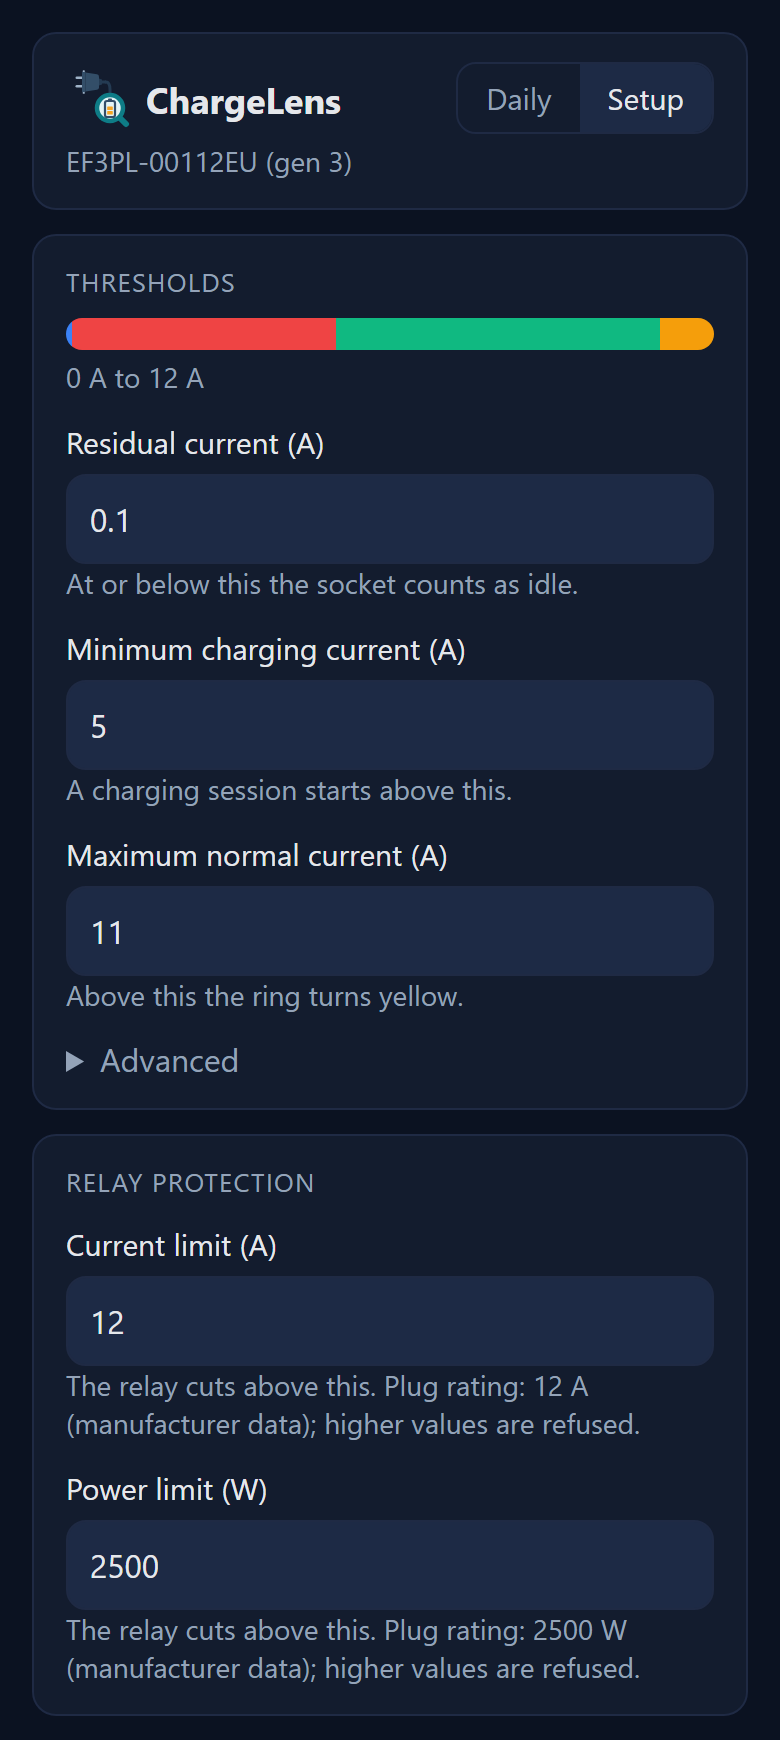
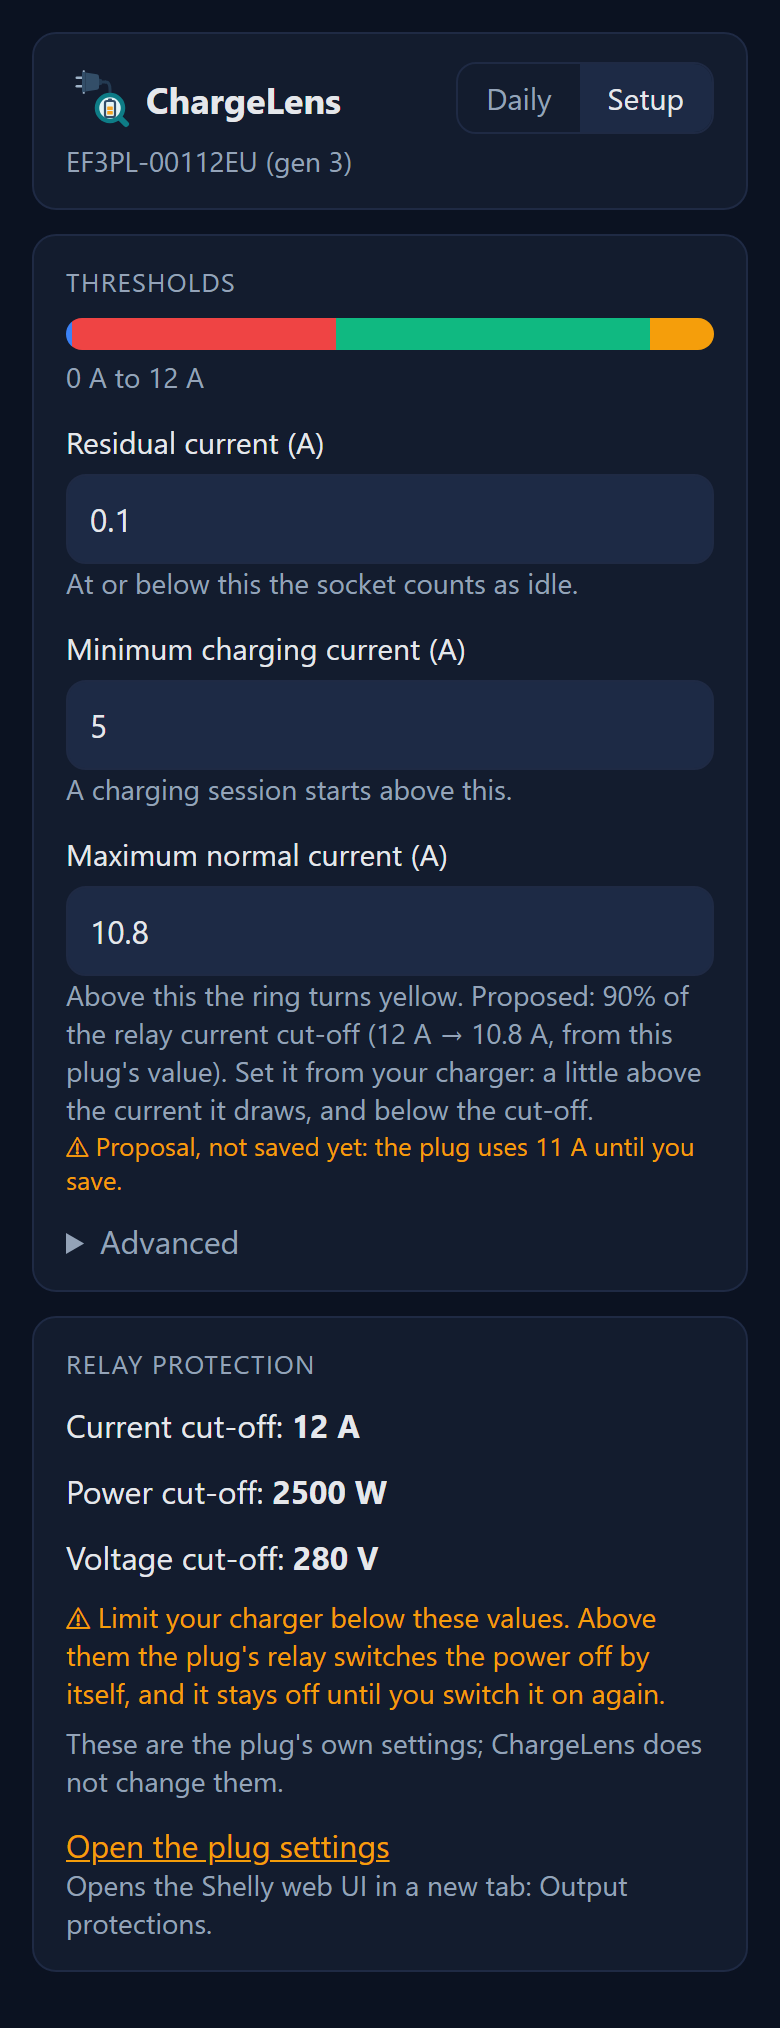
Release v1.0.0-rc.8: relay protection shown read-only, yellow default from the cut-off

diff --git a/dist/SetupHtml.html b/dist/SetupHtml.html
@@ -1,4 +1,4 @@
-<!-- ChargeLens SetupHtml v1.0.0-rc.7 -->
+<!-- ChargeLens SetupHtml v1.0.0-rc.8 -->
 <!DOCTYPE html><html lang="en"><head><meta charset="utf-8">
 <meta name="viewport" content="width=device-width,initial-scale=1,viewport-fit=cover">
 <meta name="apple-mobile-web-app-capable" content="yes"><meta name="mobile-web-app-capable" content="yes">
@@ -200,7 +200,7 @@ $('app').innerHTML=
 fl('r','Residual current (A)','At or below this the socket counts as idle.',c.r)+fl('g','Minimum charging current (A)','A charging session starts above this.',c.g)+fl('y','Maximum normal current (A)','Above this the ring turns yellow. Proposed: 90% of the relay current cut-off'+(CUT.current_limit>0?' ('+CUT.current_limit+' A &rarr; '+yProposal(CUT)+' A, from this plug\'s value)':'')+'. Set it from your charger: a little above the current it draws, and below the cut-off.',c.y)+
 '<details><summary>Advanced</summary>'+fl('h','Hysteresis (A)','',c.h)+fl('hr','Residual hysteresis (A)','',c.hr)+fl('hs','Band hold time (s)','',c.hs)+fl('sg','Session gap (s)','A session ends after this long without charging current.',c.sg)+'</details></div>'+
 '<div class="c"><div class="lab">Relay protection</div>'+[['current_limit','Current','A'],['power_limit','Power','W'],['voltage_limit','Voltage','V']].map(x=>'<div class="f">'+x[1]+' cut-off: <b>'+(CUT[x[0]]===null?'unknown':CUT[x[0]]+' '+x[2])+'</b></div>').join('')+
-'<div class="mu" style="color:var(--warn)">&#9888; Limit your charger below these values. Above them the plug\'s relay switches the power off by itself, and it stays off until you switch it on again.</div><div class="mu">These are the plug\'s own settings; ChargeLens does not change them.</div>'+
+'<div class="mu" style="color:var(--warn);margin:10px 0 6px">&#9888; Limit your charger below these values. Above them the plug\'s relay switches the power off by itself, and it stays off until you switch it on again.</div><div class="mu">These are the plug\'s own settings; ChargeLens does not change them.</div>'+
 '<div class="f"><a href="'+cutLink(location.host)+'" target="_blank" rel="noopener">Open the plug settings</a><div class="mu">Opens the Shelly web UI in a new tab: Output protections.</div></div></div>'+
 '<div class="c"><div class="lab">Device</div>'+tx('name','Device name (optional, up to 64 characters)',n.name)+'</div>'+
 '<div class="c"><div class="lab">Button</div>'+sl('in_mode','The button',[['detached','does nothing'],['momentary','toggles the relay']],n.in_mode)+'</div>'+

diff --git a/src/setup.html b/src/setup.html
@@ -129,7 +129,7 @@ $('app').innerHTML=
 fl('r','Residual current (A)','At or below this the socket counts as idle.',c.r)+fl('g','Minimum charging current (A)','A charging session starts above this.',c.g)+fl('y','Maximum normal current (A)','Above this the ring turns yellow. Proposed: 90% of the relay current cut-off'+(CUT.current_limit>0?' ('+CUT.current_limit+' A &rarr; '+yProposal(CUT)+' A, from this plug\'s value)':'')+'. Set it from your charger: a little above the current it draws, and below the cut-off.',c.y)+
 '<details><summary>Advanced</summary>'+fl('h','Hysteresis (A)','',c.h)+fl('hr','Residual hysteresis (A)','',c.hr)+fl('hs','Band hold time (s)','',c.hs)+fl('sg','Session gap (s)','A session ends after this long without charging current.',c.sg)+'</details></div>'+
 '<div class="c"><div class="lab">Relay protection</div>'+[['current_limit','Current','A'],['power_limit','Power','W'],['voltage_limit','Voltage','V']].map(x=>'<div class="f">'+x[1]+' cut-off: <b>'+(CUT[x[0]]===null?'unknown':CUT[x[0]]+' '+x[2])+'</b></div>').join('')+
-'<div class="mu" style="color:var(--warn)">&#9888; Limit your charger below these values. Above them the plug\'s relay switches the power off by itself, and it stays off until you switch it on again.</div><div class="mu">These are the plug\'s own settings; ChargeLens does not change them.</div>'+
+'<div class="mu" style="color:var(--warn);margin:10px 0 6px">&#9888; Limit your charger below these values. Above them the plug\'s relay switches the power off by itself, and it stays off until you switch it on again.</div><div class="mu">These are the plug\'s own settings; ChargeLens does not change them.</div>'+
 '<div class="f"><a href="'+cutLink(location.host)+'" target="_blank" rel="noopener">Open the plug settings</a><div class="mu">Opens the Shelly web UI in a new tab: Output protections.</div></div></div>'+
 '<div class="c"><div class="lab">Device</div>'+tx('name','Device name (optional, up to 64 characters)',n.name)+'</div>'+
 '<div class="c"><div class="lab">Button</div>'+sl('in_mode','The button',[['detached','does nothing'],['momentary','toggles the relay']],n.in_mode)+'</div>'+

diff --git a/dist/installer.js b/dist/installer.js
@@ -1,6 +1,6 @@
-// ChargeLens Installer v1.0.0-rc.7
+// ChargeLens Installer v1.0.0-rc.8
 let REPO = "pjrml/chargelens";
-let TAG = "v1.0.0-rc.7";
+let TAG = "v1.0.0-rc.8";
 let BOOT = "<!DOCTYPE html><html lang=\"en\"><head><meta charset=\"utf-8\">" +
 "<meta name=\"viewport\" content=\"width=device-width,initial-scale=1\"><title>ChargeLens installer</title></head>" +
 "<body style=\"background:#0b1221;color:#94a3b8;font-family:sans-serif;padding:16px\"><div id=\"m\">Loading the installer...</div><script>" +

diff --git a/library/chargelens-installer.js b/library/chargelens-installer.js
@@ -1,6 +1,6 @@
-// ChargeLens Installer v1.0.0-rc.7
+// ChargeLens Installer v1.0.0-rc.8
 let REPO = "pjrml/chargelens";
-let TAG = "v1.0.0-rc.7";
+let TAG = "v1.0.0-rc.8";
 let BOOT = "<!DOCTYPE html><html lang=\"en\"><head><meta charset=\"utf-8\">" +
 "<meta name=\"viewport\" content=\"width=device-width,initial-scale=1\"><title>ChargeLens installer</title></head>" +
 "<body style=\"background:#0b1221;color:#94a3b8;font-family:sans-serif;padding:16px\"><div id=\"m\">Loading the installer...</div><script>" +

diff --git a/dist/install.html b/dist/install.html
@@ -1,4 +1,4 @@
-<!-- ChargeLens InstallHtml v1.0.0-rc.7 -->
+<!-- ChargeLens InstallHtml v1.0.0-rc.8 -->
 <!DOCTYPE html><html lang="en"><head><meta charset="utf-8">
 <meta name="viewport" content="width=device-width,initial-scale=1,viewport-fit=cover">
 <meta name="apple-mobile-web-app-capable" content="yes"><meta name="mobile-web-app-capable" content="yes">

diff --git a/dist/PageHtml.html b/dist/PageHtml.html
@@ -1,4 +1,4 @@
-<!-- ChargeLens PageHtml v1.0.0-rc.7 -->
+<!-- ChargeLens PageHtml v1.0.0-rc.8 -->
 <!DOCTYPE html><html lang="en"><head><meta charset="utf-8">
 <meta name="viewport" content="width=device-width,initial-scale=1,viewport-fit=cover">
 <meta name="apple-mobile-web-app-capable" content="yes"><meta name="mobile-web-app-capable" content="yes">

diff --git a/dist/Meter.js b/dist/Meter.js
@@ -1,4 +1,4 @@
-// ChargeLens Meter v1.0.0-rc.7
+// ChargeLens Meter v1.0.0-rc.8
 function cx() {
 let D = "r,0.1,0.02,1;g,5,1,11;y,11,1,12;h,0.3,0.05,1;hr,0.05,0.01,0.5;hs,10,2,60;sg,600,60,3600;p,0,0,10;lo,1,0,1;lb,50,5,100".split(";");
 let K = [], w, B;

diff --git a/dist/Led.js b/dist/Led.js
@@ -1,4 +1,4 @@
-// ChargeLens Led v1.0.0-rc.7
+// ChargeLens Led v1.0.0-rc.8
 let L = {r: 0.1, g: 5, y: 11, h: 0.3, hr: 0.05, hs: 10, lo: 1, lb: 50};
 function M(n, s, d) {
 if (!s || n <= d.r) return 0;

diff --git a/dist/Page.js b/dist/Page.js
@@ -1,4 +1,4 @@
-// ChargeLens Page v1.0.0-rc.7
+// ChargeLens Page v1.0.0-rc.8
 let V = 1700000000;
 let aa = 5;
 function A(f, O) {

diff --git a/tools/drive.py b/tools/drive.py
@@ -16,6 +16,9 @@ Steps run in order and stop at the first failed wait:
   dump                 print the address and the page text
   confirm              answer OK to every confirm() of the pages opened after it (e.g. the loader's ?base= prompt)
   sleep:<sec>
+  phone                phone viewport for the pages opened after it (390 px wide, 2x), as the doc screenshots
+  js:<expr>            evaluate JavaScript in the page and print the result (e.g. hide a MAC before a shot)
+  shot:<file>          PNG of the whole page content (up to the end of <body>) into <file>
 Exit code 0 when every step passed.
 """
 import argparse
@@ -32,8 +35,8 @@ import urllib.request
 
 sys.path.insert(0, os.path.dirname(os.path.abspath(__file__)))
 
-COMMANDS = ("open", "click", "click?", "check", "wait", "waiturl", "dump", "sleep", "confirm")
-NEEDS_ARG = ("open", "click", "click?", "check", "wait", "waiturl", "sleep")
+COMMANDS = ("open", "click", "click?", "check", "wait", "waiturl", "dump", "sleep", "confirm", "phone", "js", "shot")
+NEEDS_ARG = ("open", "click", "click?", "check", "wait", "waiturl", "sleep", "js", "shot")
 
 
 def parse_step(step):
@@ -197,6 +200,19 @@ def run(ip, steps, browser=None, port=9333):
                 ws.call("Page.addScriptToEvaluateOnNewDocument", {"source": "window.confirm=function(){return true}"})
             elif cmd == "sleep":
                 time.sleep(float(arg))
+            elif cmd == "phone":
+                ws.call("Emulation.setDeviceMetricsOverride", {"width": 390, "height": 844, "deviceScaleFactor": 2,
+                                                               "mobile": True})
+            elif cmd == "js":
+                print("   =", ev(ws, arg))
+            elif cmd == "shot":
+                w, h = ev(ws, "[document.documentElement.clientWidth,Math.ceil(document.body.getBoundingClientRect().bottom+"
+                              "parseFloat(getComputedStyle(document.body).marginBottom))]")
+                r = ws.call("Page.captureScreenshot", {"format": "png", "captureBeyondViewport": True,
+                                                       "clip": {"x": 0, "y": 0, "width": w, "height": h, "scale": 1}})
+                with open(arg, "wb") as f:
+                    f.write(base64.b64decode(r["data"]))
+                print("   saved", arg)
         return ok
     finally:
         p.terminate()

diff --git a/tools/test_drive.py b/tools/test_drive.py
@@ -18,6 +18,9 @@ CASES = [
     ("wait:a:b", ("wait", "a:b", None)),  # a non-number after the last colon is part of the text
     ("waiturl:/install:30", ("waiturl", "/install", 30)),
     ("sleep:2.5", ("sleep", "2.5", None)),
+    ("phone", ("phone", "", None)),
+    ("js:document.title='a:b'", ("js", "document.title='a:b'", None)),
+    ("shot:docs/x.png", ("shot", "docs/x.png", None)),
 ]
 
 

diff --git a/CHANGELOG.md b/CHANGELOG.md
@@ -2,6 +2,16 @@
 
 ## Unreleased
 
+## 1.0.0-rc.8 (2026-11-23)
+
+- Setup: the Relay protection card now only shows the plug's own cut-off values (current, power, voltage), with a
+  warning to limit the charger below them and a link that opens *Output protections* in the Shelly web UI.
+  ChargeLens no longer changes these values (setup and import); the export keeps them for information.
+- Setup: when no maximum normal current is saved, the page proposes 90% of the relay current cut-off
+  (12 A -> 10.8 A); a maximum at or above the cut-off is an error.
+- Installer: the charger confirmation shows the cut-off values read from the plug instead of a fixed 10 A.
+- Developer CLI: `tools/drive.py` steps `phone`, `js:` and `shot:` for the doc screenshots.
+
 ## 1.0.0-rc.7 (2026-11-23)
 
 - Update: the install page now also updates the `Installer` script on the plug (it kept the version of the first
